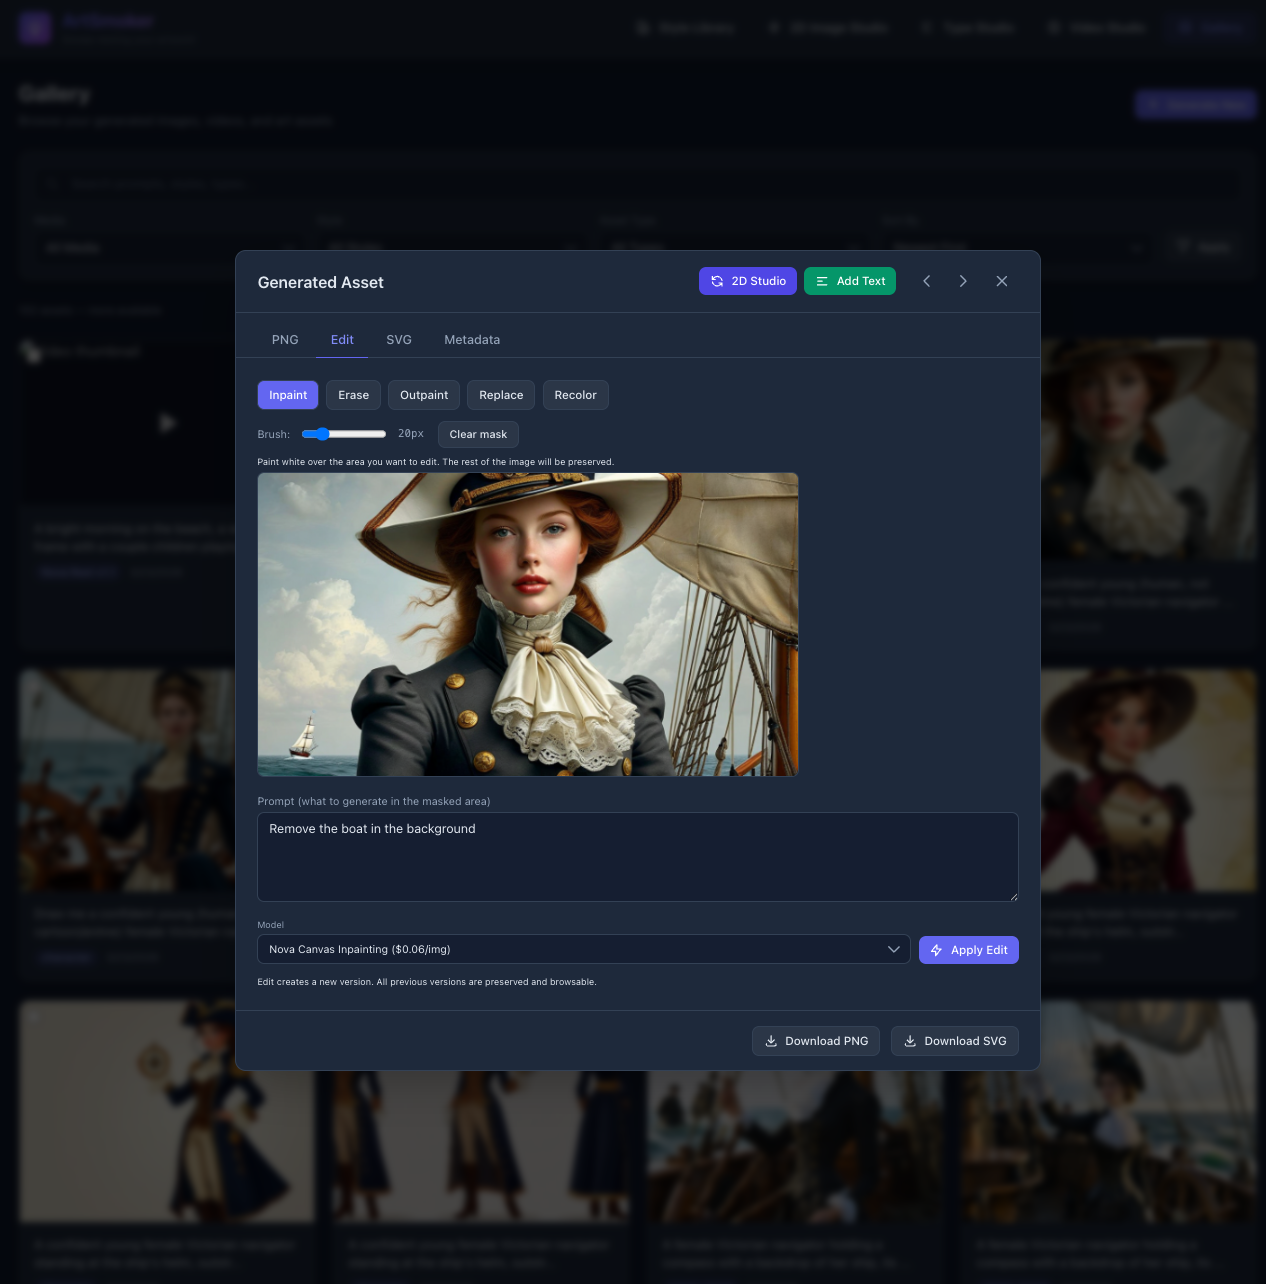
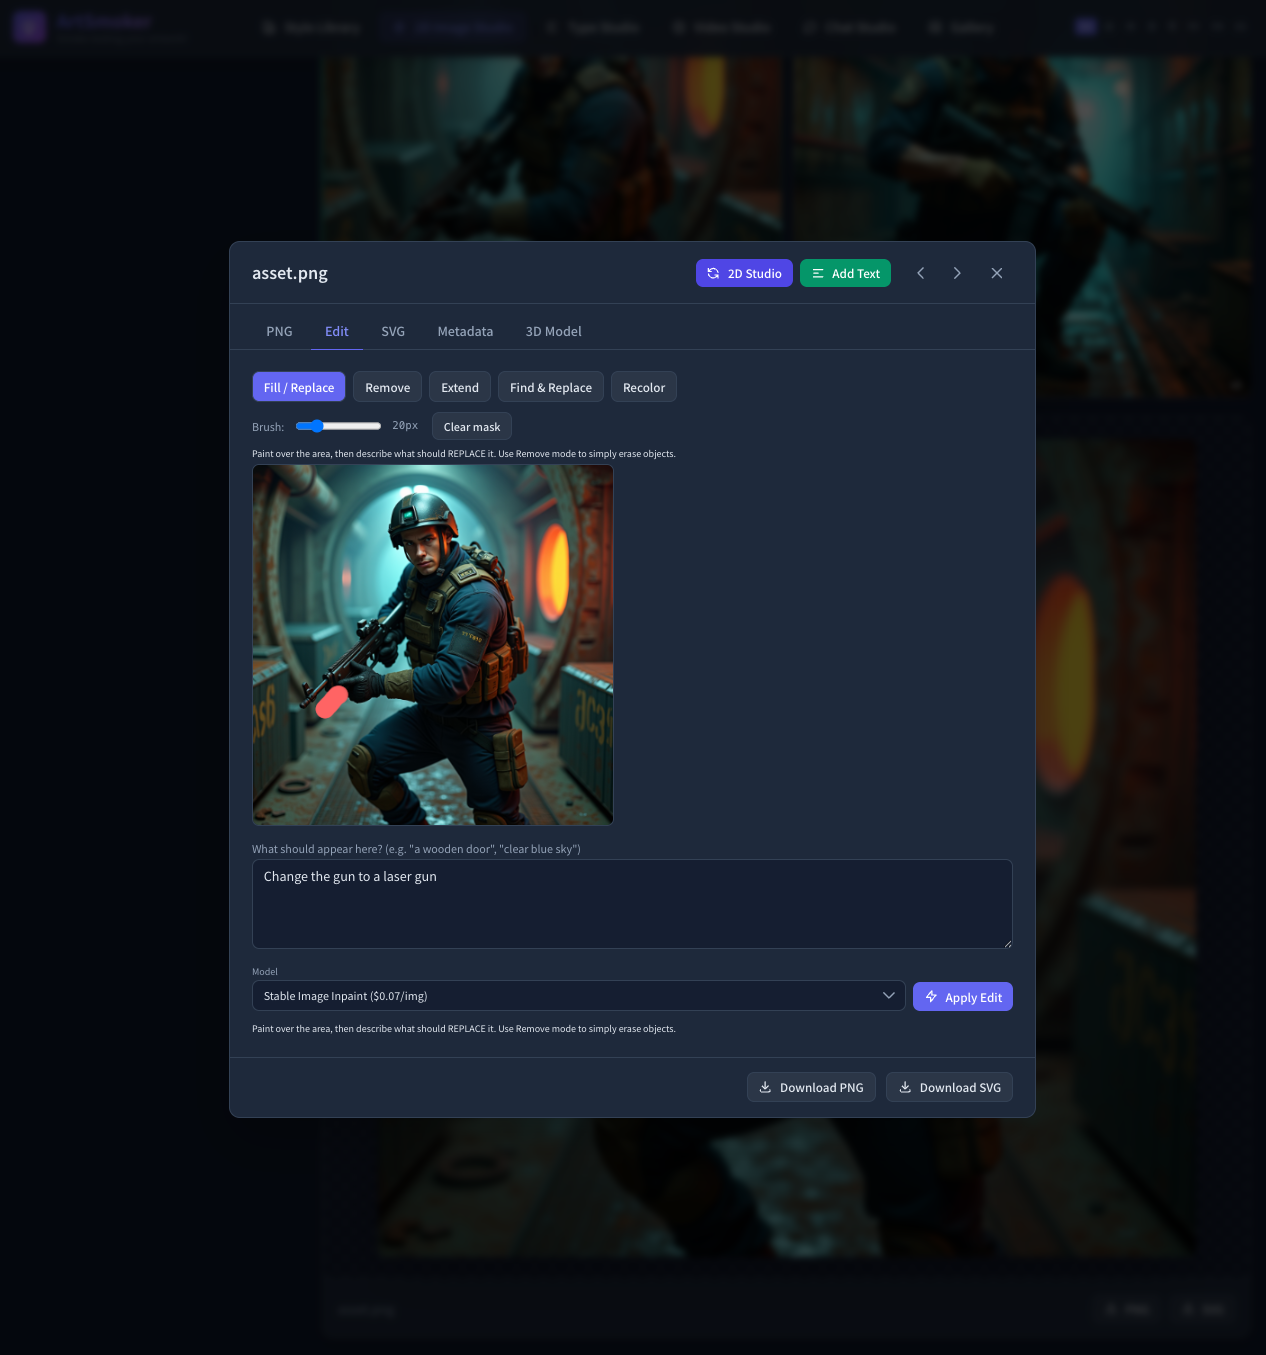
Update screenshots, fix nvdiffrast S3 ClientError exception handling
- Replace outdated screenshots with current UI (8 new images)
- Add Prompt Designer, Model Comparison, Asset Viewer, 3D Model screenshots
- Remove old style-library images (no new replacement provided, kept from git)
- Fix botocore.exceptions.ClientError import in texture pipeline loader
- Update all translated READMEs (ja, zh, ko, fr, es) with new image refs

diff --git a/backend/sagemaker_handlers/inference.py b/backend/sagemaker_handlers/inference.py
@@ -1419,6 +1419,7 @@ def _load_texture_models(code_dir, hf_token):
         import nvdiffrast
     except ImportError:
         import boto3 as _boto3
+        from botocore.exceptions import ClientError as _BotoClientError
         _s3 = _boto3.client("s3", region_name=os.environ.get("AWS_DEFAULT_REGION", "us-west-2"))
         _bucket = _get_env("ARTSMOKER_CACHE_BUCKET") or _get_env("ARTSMOKER_S3_BUCKET") or ""
 
@@ -1434,7 +1435,7 @@ def _load_texture_models(code_dir, hf_token):
                 import nvdiffrast
                 installed = True
                 logger.info("nvdiffrast installed from S3 cache")
-            except _boto3.exceptions.ClientError:
+            except _BotoClientError:
                 logger.info("No cached nvdiffrast wheel in S3 — will compile from source")
             except Exception as e:
                 logger.info("S3 cache failed (%s) — will compile from source", e)

diff --git a/backend/config.py b/backend/config.py
@@ -3,7 +3,7 @@
 from pathlib import Path
 from pydantic_settings import BaseSettings
 
-APP_VERSION = "1.8-20260515_01"
+APP_VERSION = "1.8-20260515_02"
 
 class Settings(BaseSettings):
     # ── AWS ───────────────────────────────────────────────────────────────

diff --git a/README.fr.md b/README.fr.md
@@ -109,11 +109,25 @@ Pour les équipes qui veulent que chaque asset généré corresponde à un style
 
 ### 📝 1.2 Captures d'écran
 
-**2D Image Studio** — Paramètres à gauche avec liste déroulante multi-sélection de modèles, workflow de prompt en 3 étapes à droite, résultats de comparaison des modèles en dessous. Le mode multi-modèle génère sur les modèles sélectionnés simultanément avec optimisation des prompts par modèle.
+**2D Image Studio** — Paramètres à gauche avec liste déroulante multi-sélection de modèles, type d'asset, dimensions et options de post-traitement. Workflow de prompt en 3 étapes à droite avec les boutons Prompt Designer et Generate Enhanced Prompt. Déclaration IP et estimation des coûts en bas.
 
-![2D Image Studio — Paramètres, prompt et résultats générés](docs/images/image-studio-top.png)
+![2D Image Studio — Paramètres, workflow de prompt et contrôles de génération](docs/images/image-studio-top.png)
 
-![2D Image Studio — Comparaison de modèles, options de post-traitement et aperçu complet](docs/images/image-studio-bottom.png)
+**2D Image Studio — Résultats de génération** — Le prompt amélioré est affiché au-dessus, les résultats de comparaison multi-modèle en dessous. Chaque modèle génère indépendamment avec une optimisation du prompt spécifique à chaque modèle. Les résultats affichent le nom du modèle, les dimensions et le coût de génération.
+
+![2D Image Studio — Prompt amélioré et résultats de génération](docs/images/image-studio-results.png)
+
+**2D Image Studio — Comparaison de modèles** — Grille de comparaison côte à côte de tous les modèles sélectionnés (7 modèles affichés). Les variations de l'option sélectionnée sont affichées en dessous. Bascules de post-traitement à gauche (Supprimer l'arrière-plan, Convertir en SVG, Agrandir).
+
+![2D Image Studio — Grille de comparaison multi-modèle avec variations](docs/images/image-studio-comparison.png)
+
+**Prompt Designer** — L'IA décompose votre prompt en composants visuels éditables (Sujet, Scène, Composition, Éclairage, Style et Couleurs). Chaque champ peut être édité individuellement avec des contrôles verrouiller/varier pour des options créatives véritablement distinctes.
+
+![Prompt Designer — Décomposition visuelle structurée avec champs éditables](docs/images/prompt-designer-top.png)
+
+**Prompt Designer — Palette de couleurs** — Palettes de couleurs nommées avec échantillons hexadécimaux, mots-clés de style et contrôles de niveau de qualité. L'IA apprend votre identité visuelle et l'applique de manière cohérente à toutes les générations.
+
+![Prompt Designer — Palette de couleurs, mots-clés de style et contrôles de qualité](docs/images/prompt-designer-bottom.png)
 
 **Style Library** — Téléchargez l'art existant de votre jeu, l'IA analyse le style visuel et produit un guide de prompts riche en métadonnées. Les images de référence sont affichées avec l'analyse IA complète et le profil de style JSON.
 
@@ -125,9 +139,17 @@ Pour les équipes qui veulent que chaque asset généré corresponde à un style
 
 ![Galerie — Grille d'assets générés avec filtres](docs/images/gallery.png)
 
-**Asset Viewer et édition d'images** — Aperçu en taille réelle avec zoom/panoramique, onglet Édition pour l'inpainting (peinture de masque + prompt), historique des versions et téléchargement PNG/SVG.
+**Asset Viewer** — Aperçu en taille réelle avec interface à onglets (PNG, Édition, SVG, Métadonnées, Modèle 3D). Téléchargement direct des PNG et SVG. Compositing sur fond transparent affiché avec motif en damier.
 
-![Asset Viewer — Édition d'image avec inpainting](docs/images/asset-viewer-edit.png)
+![Asset Viewer — Aperçu en taille réelle avec options de téléchargement](docs/images/asset-viewer.png)
+
+**Asset Viewer — Édition d'images** — Onglet Édition avec inpainting : peignez un masque sur la zone à modifier, décrivez ce que vous souhaitez, sélectionnez un modèle d'édition et appliquez. L'historique des versions est préservé — les originaux ne sont jamais écrasés.
+
+![Asset Viewer — Inpainting avec masque et prompt](docs/images/asset-viewer-edit.png)
+
+**Génération de modèle 3D** — Convertissez n'importe quelle image Game Asset ou Character en un maillage 3D texturé (GLB). Configurez la résolution des marching cubes, le ratio de premier plan et les paramètres de génération directement dans l'onglet Modèle 3D de l'Asset Viewer.
+
+![Génération de modèle 3D — Paramètres et génération dans l'Asset Viewer](docs/images/3d-model-generation.png)
 
 **Video Studio** — Paramètres à gauche (modèle, mode de génération, durée, région, estimation des coûts), prompt à droite. Prend en charge Nova Reel (plan unique, multi-shot auto/manuel jusqu'à 2 minutes) et Luma AI Ray (rapports d'aspect, boucle).
 

diff --git a/README.es.md b/README.es.md
@@ -109,11 +109,25 @@ Para equipos que desean que cada recurso generado coincida con un estilo artíst
 
 ### 📝 1.2 Capturas de pantalla
 
-**2D Image Studio** — Configuración a la izquierda con desplegable de multi-selección de modelos, flujo de trabajo de prompt en 3 pasos a la derecha, resultados de comparación de modelos abajo. El modo multi-modelo genera con los modelos seleccionados simultáneamente con optimización de prompts por modelo.
+**2D Image Studio** — Configuración a la izquierda con desplegable de multi-selección de modelos, tipo de recurso, dimensiones y opciones de postprocesamiento. Flujo de trabajo de prompt en 3 pasos a la derecha con los botones Prompt Designer y Generate Enhanced Prompt. Declaración de PI y estimación de costos en la parte inferior.
 
-![2D Image Studio — Configuración, prompt y resultados generados](docs/images/image-studio-top.png)
+![2D Image Studio — Configuración, flujo de trabajo de prompt y controles de generación](docs/images/image-studio-top.png)
 
-![2D Image Studio — Comparación de modelos, opciones de postprocesamiento y vista previa completa](docs/images/image-studio-bottom.png)
+**2D Image Studio — Resultados de generación** — El prompt mejorado se muestra arriba, los resultados de comparación multi-modelo abajo. Cada modelo genera de forma independiente con optimización de prompt específica por modelo. Los resultados muestran nombre del modelo, dimensiones y costo de generación.
+
+![2D Image Studio — Prompt mejorado y resultados de generación](docs/images/image-studio-results.png)
+
+**2D Image Studio — Comparación de modelos** — Cuadrícula de comparación lado a lado de todos los modelos seleccionados (7 modelos mostrados). Las variaciones de la opción seleccionada se muestran abajo. Controles de postprocesamiento a la izquierda (Eliminar fondo, Convertir a SVG, Ampliar).
+
+![2D Image Studio — Cuadrícula de comparación multi-modelo con variaciones](docs/images/image-studio-comparison.png)
+
+**Prompt Designer** — La IA descompone su prompt en componentes visuales editables (Sujeto, Escena, Composición, Iluminación, Estilo y Colores). Cada campo se puede editar individualmente con controles de bloquear/variar para opciones creativas genuinamente distintas.
+
+![Prompt Designer — Descomposición visual estructurada con campos editables](docs/images/prompt-designer-top.png)
+
+**Prompt Designer — Paleta de colores** — Paletas de colores con nombre e indicadores hexadecimales, palabras clave de estilo y controles de nivel de calidad. La IA aprende su identidad visual y la aplica de forma consistente en todas las generaciones.
+
+![Prompt Designer — Paleta de colores, palabras clave de estilo y controles de calidad](docs/images/prompt-designer-bottom.png)
 
 **Style Library** — Suba el arte existente de su juego, la IA analiza el estilo visual y produce una guía de prompts rica en metadatos. Las imágenes de referencia se muestran con el análisis completo de IA y perfil de estilo JSON.
 
@@ -125,9 +139,17 @@ Para equipos que desean que cada recurso generado coincida con un estilo artíst
 
 ![Galería — Cuadrícula de recursos generados con filtros](docs/images/gallery.png)
 
-**Asset Viewer y edición de imágenes** — Vista previa a tamaño completo con zoom/desplazamiento, pestaña de edición para inpainting (pintura de máscara + prompt), historial de versiones y descarga PNG/SVG.
+**Asset Viewer** — Vista previa a tamaño completo con interfaz de pestanas (PNG, Editar, SVG, Metadatos, Modelo 3D). Descarga directa de PNG y SVG. Composición de fondo transparente mostrada con patrón de tablero de ajedrez.
 
-![Asset Viewer — Edición de imágenes con inpainting](docs/images/asset-viewer-edit.png)
+![Asset Viewer — Vista previa a tamaño completo con opciones de descarga](docs/images/asset-viewer.png)
+
+**Asset Viewer — Edición de imágenes** — Pestana de edición con inpainting: pinte una máscara sobre el área a modificar, describa lo que desea, seleccione un modelo de edición y aplique. El historial de versiones se conserva — los originales nunca se sobrescriben.
+
+![Asset Viewer — Inpainting con máscara y prompt](docs/images/asset-viewer-edit.png)
+
+**Generación de modelo 3D** — Convierta cualquier imagen de Game Asset o Character en una malla 3D texturizada (GLB). Configure la resolución de marching cubes, la proporción de primer plano y los parámetros de generación directamente en la pestana Modelo 3D del Asset Viewer.
+
+![Generación de modelo 3D — Configuración y generación en el Asset Viewer](docs/images/3d-model-generation.png)
 
 **Video Studio** — Configuración a la izquierda (modelo, modo de generación, duración, región, estimación de costos), prompt a la derecha. Compatible con Nova Reel (toma única, multi-toma automática/manual hasta 2 minutos) y Luma AI Ray (relaciones de aspecto, bucle).
 

diff --git a/README.md b/README.md
@@ -107,11 +107,25 @@ For teams that want every generated asset to match an existing art style — upl
 
 ### 📝 1.2 Screenshots
 
-**2D Image Studio** — Settings on the left with multi-select model dropdown, 3-step prompt workflow on the right, model comparison results below. Multi-model mode generates across selected models simultaneously with per-model prompt optimization.
+**2D Image Studio** — Settings on the left with multi-select model dropdown, asset type, dimensions, and post-processing options. 3-step prompt workflow on the right with Prompt Designer and Generate Enhanced Prompt buttons. IP declaration and cost estimate at the bottom.
 
-![2D Image Studio — Settings, prompt, and generated results](docs/images/image-studio-top.png)
+![2D Image Studio — Settings, prompt workflow, and generation controls](docs/images/image-studio-top.png)
 
-![2D Image Studio — Model comparison, post-processing options, and full preview](docs/images/image-studio-bottom.png)
+**2D Image Studio — Generation Results** — Enhanced prompt shown above, multi-model comparison results below. Each model generates independently with per-model prompt optimization. Results display model name, dimensions, and generation cost.
+
+![2D Image Studio — Enhanced prompt and generation results](docs/images/image-studio-results.png)
+
+**2D Image Studio — Model Comparison** — Side-by-side comparison grid across all selected models (7 models shown). Variations of the selected option displayed below. Post-processing toggles (Remove Background, Convert to SVG, Upscale) on the left.
+
+![2D Image Studio — Multi-model comparison grid with variations](docs/images/image-studio-comparison.png)
+
+**Prompt Designer** — AI decomposes your prompt into editable visual components (Subject, Scene, Composition, Lighting, Style & Colors). Each field can be individually edited with lock/vary controls for genuinely distinct creative options.
+
+![Prompt Designer — Structured visual decomposition with editable fields](docs/images/prompt-designer-top.png)
+
+**Prompt Designer — Color Palette** — Named color palettes with hex swatches, style keywords, and quality level controls. The AI learns your visual identity and applies it consistently across all generations.
+
+![Prompt Designer — Color palette, style keywords, and quality controls](docs/images/prompt-designer-bottom.png)
 
 **Style Library** — Upload your game's existing art, AI analyzes the visual style and produces a metadata-rich prompt guide. Reference images are displayed with the full AI analysis and JSON style profile.
 
@@ -123,9 +137,17 @@ For teams that want every generated asset to match an existing art style — upl
 
 ![Gallery — Generated assets grid with filters](docs/images/gallery.png)
 
-**Asset Viewer & Image Editing** — Full-size preview with zoom/pan, Edit tab for inpainting (mask paint + prompt), version history, and PNG/SVG download.
+**Asset Viewer** — Full-size preview with tabbed interface (PNG, Edit, SVG, Metadata, 3D Model). Download PNG and SVG directly. Transparent background compositing shown with checkerboard pattern.
 
-![Asset Viewer — Image editing with inpainting](docs/images/asset-viewer-edit.png)
+![Asset Viewer — Full-size preview with download options](docs/images/asset-viewer.png)
+
+**Asset Viewer — Image Editing** — Edit tab with inpainting: paint a mask over the area to change, describe what you want, select an editing model, and apply. Version history preserved — originals are never overwritten.
+
+![Asset Viewer — Inpainting with mask and prompt](docs/images/asset-viewer-edit.png)
+
+**3D Model Generation** — Convert any Game Asset or Character image into a textured 3D mesh (GLB). Configure marching cubes resolution, foreground ratio, and generation parameters directly in the Asset Viewer's 3D Model tab.
+
+![3D Model Generation — Settings and generation in the Asset Viewer](docs/images/3d-model-generation.png)
 
 **Video Studio** — Settings on the left (model, generation mode, duration, region, cost estimate), prompt on the right. Supports Nova Reel (single shot, multi-shot auto/manual up to 2 minutes) and Luma AI Ray (aspect ratios, looping).
 
